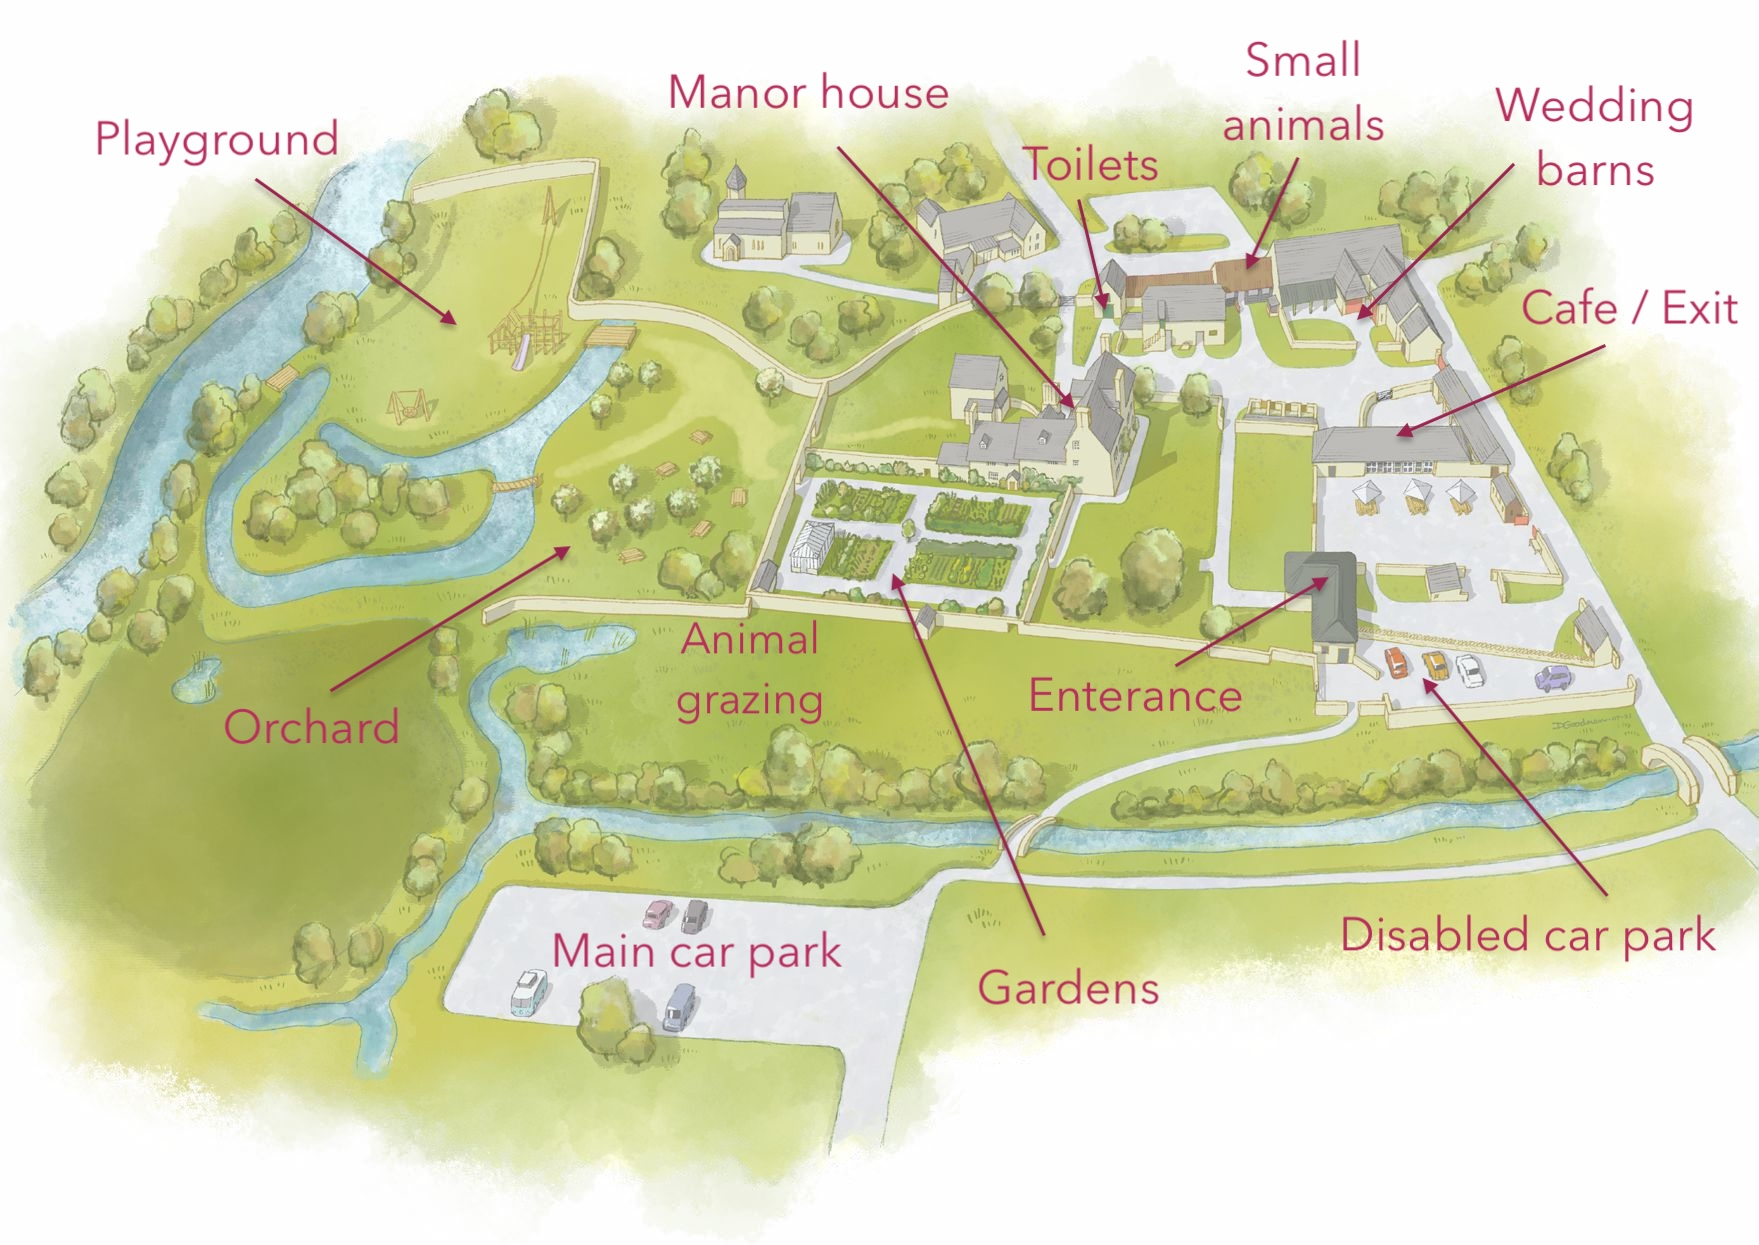
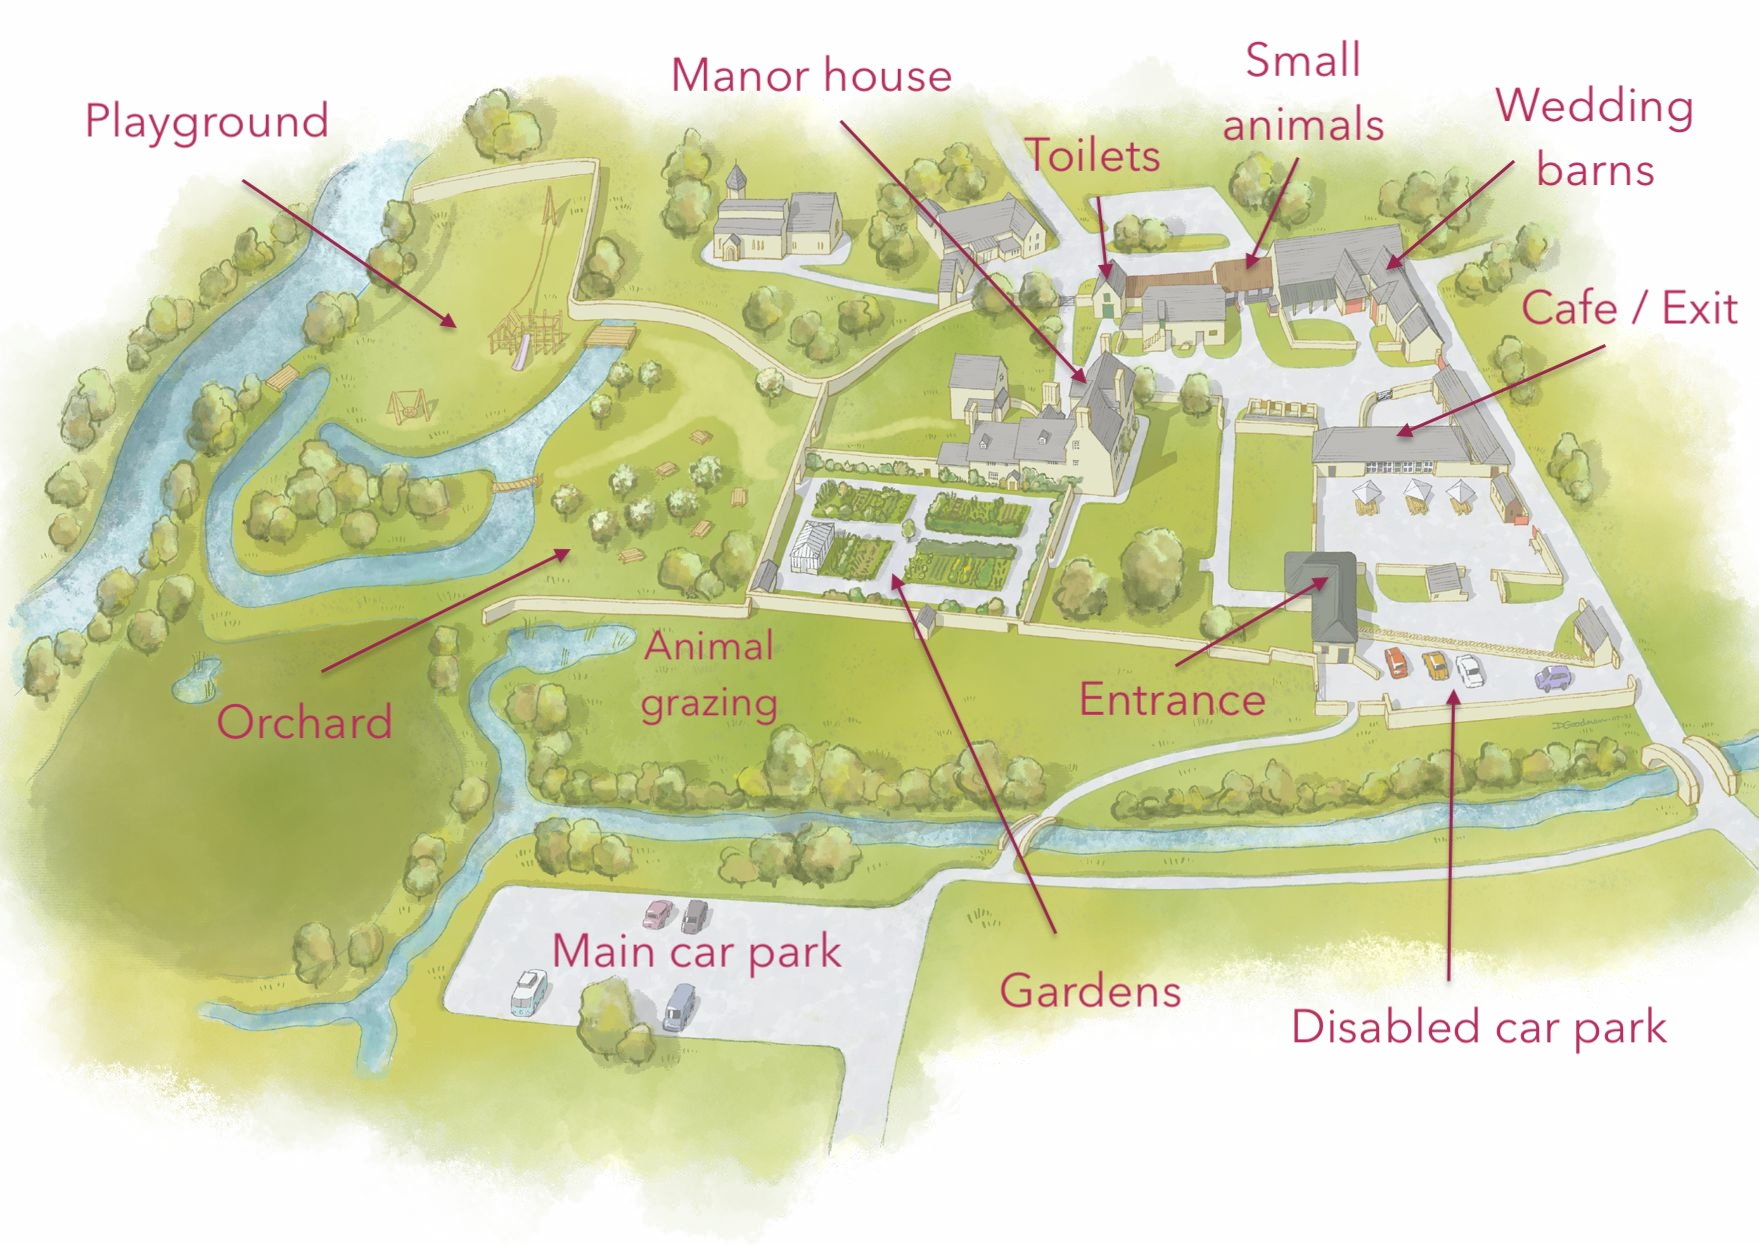
Update map

diff --git a/index.html b/index.html
@@ -104,10 +104,11 @@
           Note the venue is open to the public during the day, and guests are welcome to access the farm free of charge from 9:30 am on the day of the service.
           There will also be plenty of time to explore the farm and gardens after the ceremony.
           <br><br>
+          <img src="images/cogges-map.jpeg" alt="Cogges Manor Farm">
+          <br>
           You can learn more about Cogges Manor Farm and the 1,000 year history of the manor house on their
           <a href="https://www.cogges.org.uk/" target="_blank" rel="noopener noreferrer">website</a>.
         </p>
-        <img src="images/cogges-map.jpeg" alt="Cogges Manor Farm">
       </div>
     </section>
 